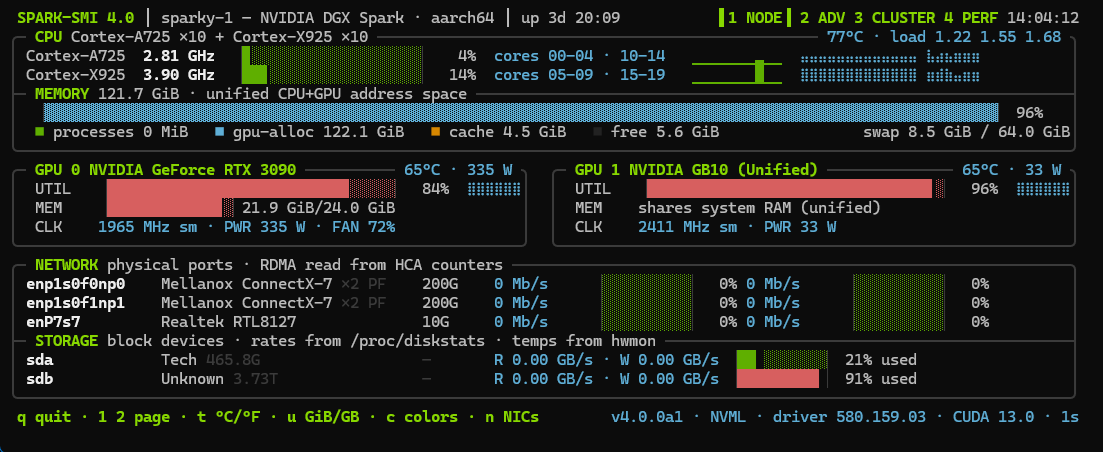
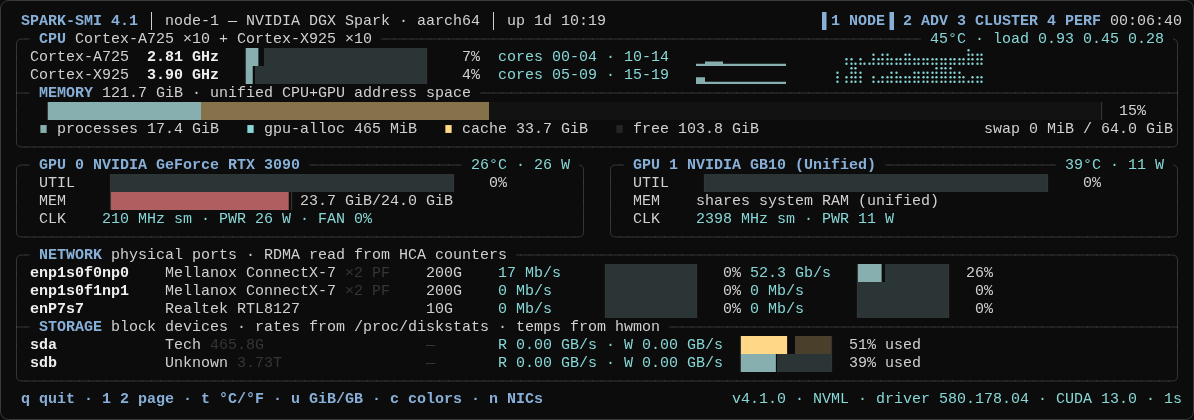
Re-capture README images with placeholder node names (#9)
Recorded live on the Sparks with 4.1.0's --node-name, rendered with the new
shared tool ansishot (tool-bin): demo and resize GIFs, page 1/2/3 stills,
all complete pages. Page 4 and the three-node image still showed real host
names and cannot be re-captured from here yet, so they are removed; their
descriptions stay. Drops the unreferenced 3.5.7 screenshot.

Claude-Session: https://claude.ai/code/session_01X9kn5ZPV9eKqrf91VqQXp5

diff --git a/README.md b/README.md
@@ -16,10 +16,11 @@
 
 ![spark-smi live demo](https://raw.githubusercontent.com/chappa-ai-llc/spark-smi/main/screenshots/spark-smi-demo.gif)
 
-Live mode on a DGX Spark with an RTX 3090 attached — paging through the
-overview, the advanced panels, the cluster fleet view, and a fabric
-bandwidth test, then cycling color themes. Everything on screen is real
-hardware telemetry; nothing in this project is mocked or simulated.
+Live mode on a DGX Spark with an RTX 3090 attached: the overview, three of
+the color themes (one `c` keypress each), then the two-node cluster view,
+with an iperf3 run on the first ConnectX-7 port. Everything on screen is
+real hardware telemetry; nothing in this project is mocked or simulated. The
+node names are set with `--node-name` (see [Display names](#display-names)).
 
 ---
 
@@ -485,8 +486,9 @@ spark-smi -l --cluster node-1,node-2,node-3,node-4
 
 ## Screenshots
 
-All four captured on a DGX Spark with an RTX 3090 attached, mid-workload —
-and each in a different color theme, since that's a `c` keypress away.
+Captured on two DGX Sparks, one with an RTX 3090 attached, in the `nord`
+theme, with an iperf3 run on the first ConnectX-7 port and the node names
+set with `--node-name`.
 
 **Page 1 — Overview.** Hybrid Cortex-X925/A725 clusters, unified memory split
 into process/GPU/cache segments, both GPUs side by side, RDMA-aware NIC
@@ -505,22 +507,18 @@ fleet summary and per-node totals in the section headers.
 
 ![Page 3 cluster](https://raw.githubusercontent.com/chappa-ai-llc/spark-smi/main/screenshots/page3-cluster.png)
 
-Nothing about that view is DGX-specific. Here is the same page across a
-deliberately mismatched fleet — an x86_64 AMD EPYC server with no usable
-NVIDIA driver alongside two aarch64 Sparks — 72 cores and 998 GiB summed
-across three machines, ConnectX-4 and ConnectX-7 on the same fabric row, and
-a GPU section that counts `1× RTX 3090 · 2× GB10` rather than assuming
-they're all alike:
-
-![Heterogeneous 3-node cluster](https://raw.githubusercontent.com/chappa-ai-llc/spark-smi/main/screenshots/cluster-3node-heterogeneous.png)
+Nothing about that view is DGX-specific. It has run across a deliberately
+mismatched fleet — an x86_64 AMD EPYC server with no usable NVIDIA driver
+alongside two aarch64 Sparks — with 72 cores and 998 GiB summed across three
+machines, ConnectX-4 and ConnectX-7 on the same fabric row, and a GPU
+section that counts `1× RTX 3090 · 2× GB10` rather than assuming they're all
+alike.
 
 **Page 4 — Fabric validation.** Four rails driven concurrently, charted live,
 with ASIC temperature tracked across the run and an all-pairs
-bandwidth/latency matrix. The 53 Gb/s-per-rail figure here is real: four
-rails sharing one PCIe gen5 ×4 uplink, which is exactly the kind of ceiling
-this page exists to expose.
-
-![Page 4 fabric validation](https://raw.githubusercontent.com/chappa-ai-llc/spark-smi/main/screenshots/page4-fabric.png)
+bandwidth/latency matrix. Between two Sparks it measured about 53 Gb/s per
+rail: four rails sharing one PCIe gen5 ×4 uplink, which is exactly the kind
+of ceiling this page exists to expose.
 
 ---
 

diff --git a/CHANGELOG.md b/CHANGELOG.md
@@ -6,6 +6,14 @@ adheres to [Semantic Versioning](https://semver.org/spec/v2.0.0.html).
 
 ## [Unreleased]
 
+### Changed
+
+- README images re-captured with spark-smi 4.1.0 and placeholder node names
+  (`--node-name`), so none shows a real host name: the demo and resize GIFs
+  and the page 1, 2 and 3 screenshots (#9). The page 4 and three-node
+  screenshots are removed until they can be re-captured the same way; their
+  descriptions stay.
+
 ## [4.1.0] — 2026-11-24
 
 A display name in place of the hostname, so shared screenshots need not show
